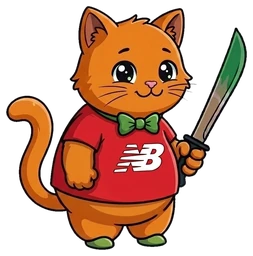
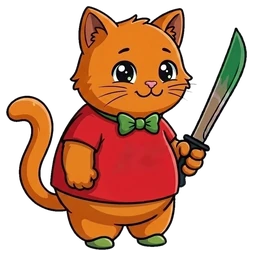
Build 13: 고양이 검사 티셔츠 브랜드 로고 제거
Claude-Session: https://claude.ai/code/session_01TAGw7xMGQHjxVZsWyfjSay

Changed region(s): [[0.4427, 0.5312, 0.664, 0.6875]]

diff --git a/index.html b/index.html
@@ -72,7 +72,7 @@ h2{margin:0 0 14px;font-size:clamp(30px,9vw,48px);color:#ffd23f;text-shadow:0 3p
 
 <script>
 'use strict';
-const BUILD = 12;
+const BUILD = 13;
 const BOSS_INTERVAL = 180;      // 보스 등장 간격(초)
 const WAVE_INTERVAL = 60;       // 대규모 몰이 이벤트 간격(초)
 const MAX_ENEMIES = 220;

diff --git a/README.md b/README.md
@@ -2,12 +2,15 @@
 
 막대 영웅 서바이벌 게임 — 아빠와 아들이 함께 만드는 HTML5 게임.
 
-- **현재 빌드: Build 12** (화면 오른쪽 아래에도 표시)
+- **현재 빌드: Build 13** (화면 오른쪽 아래에도 표시)
 - 플레이: https://leetiger12a-spec.github.io/Stickhero/ (GitHub Pages를 켠 뒤)
 
 ## 조작
 - 📱 폰: 화면 아무 곳이나 끌면 가상 조이스틱으로 이동, 공격은 자동
 - 💻 PC: WASD / 방향키 이동, P·Esc 일시정지, 레벨업 카드는 1·2·3 키
+
+## Build 13 내용
+- 고양이 검사 티셔츠의 브랜드 로고 제거(빨간 무지 티셔츠). 로고가 있던 원본은 저장소에서 삭제
 
 ## Build 12 내용 — 동료 고용
 - 🏠 영웅 숙소(🪵12 🪙40): 망루 2개 또는 대장간을 지으면 열림. 지은 뒤 금화로 동료 고용(최대 4명, 🪙60·120·200·300)
